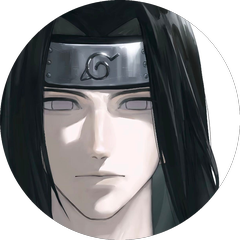
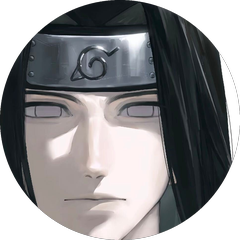
fix: 头像裁切更聚焦

diff --git a/make_avatar.py b/make_avatar.py
@@ -8,8 +8,8 @@ im = Image.open(SRC).convert("RGB")
 w, h = im.size
 
 # 取中心偏上一点的方形区域，让人脸占满
-side = int(min(w, h) * 0.92)
-cx, cy = w // 2, int(h * 0.47)
+side = int(min(w, h) * 0.74)
+cx, cy = w // 2, int(h * 0.44)
 box = (cx - side // 2, cy - side // 2, cx + side // 2, cy + side // 2)
 im = im.crop(box).resize((SIZE, SIZE), Image.LANCZOS)
 
